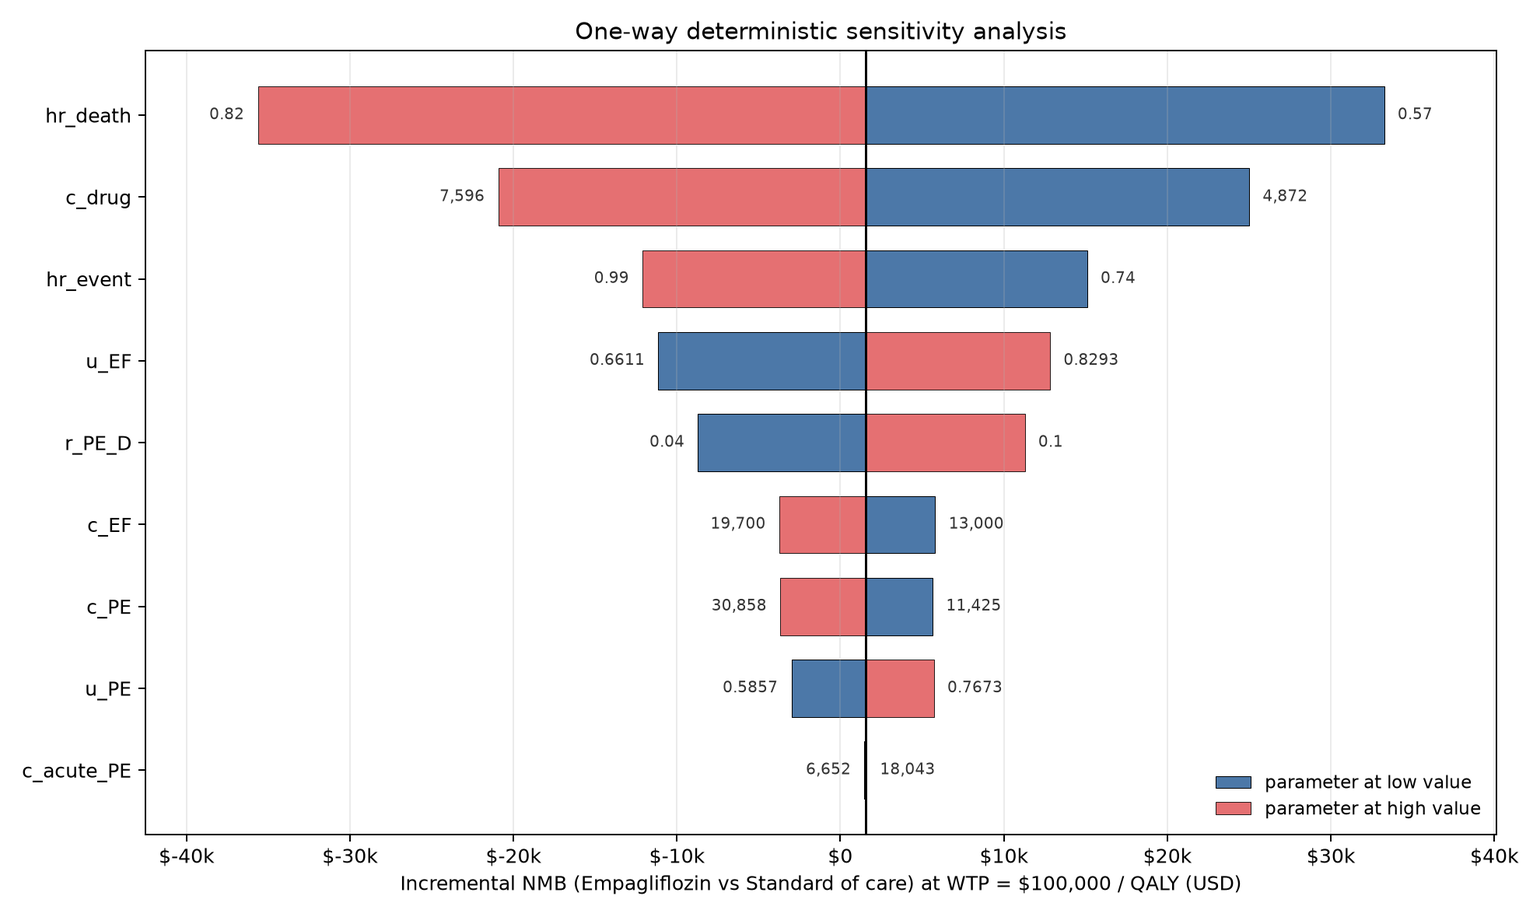
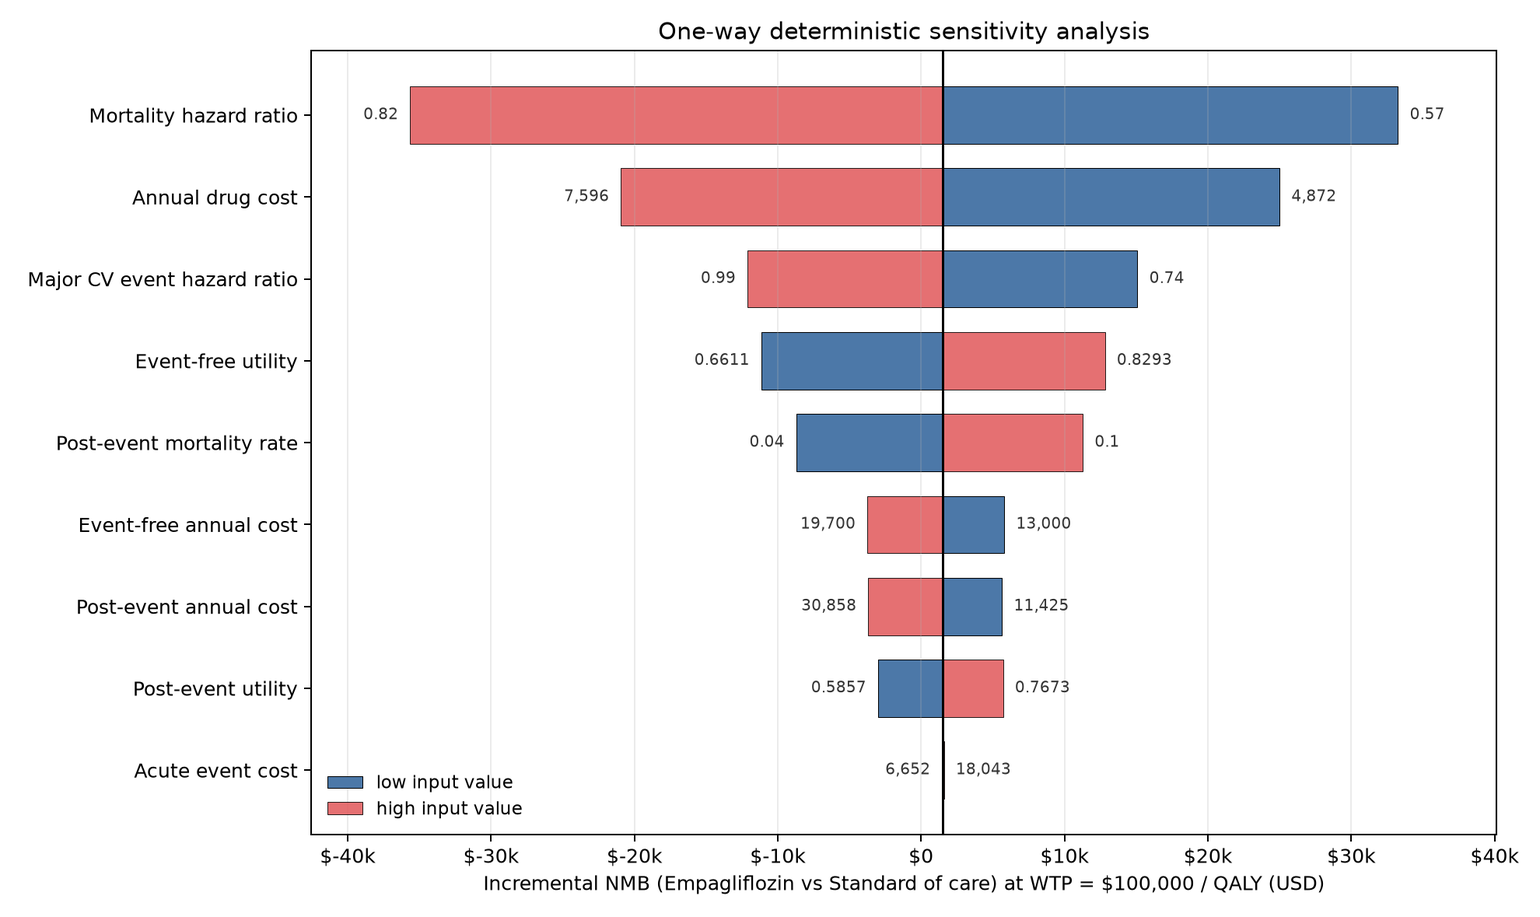
feat: polish OpenCEA presentation

diff --git a/src/opencea/plots.py b/src/opencea/plots.py
@@ -14,7 +14,7 @@ source of truth for NMB / CEAC values. The tornado takes a
 from __future__ import annotations
 
 from pathlib import Path
-from typing import Optional, Union
+from typing import Mapping, Optional, Union
 
 import matplotlib
 
@@ -188,6 +188,7 @@ def plot_tornado(
     out_path: PathLike,
     top_n: Optional[int] = None,
     dpi: int = 150,
+    parameter_labels: Optional[Mapping[str, str]] = None,
 ) -> Path:
     """Classic CEA tornado: horizontal bars sorted by swing, centered on base.
 
@@ -204,6 +205,9 @@ def plot_tornado(
         Destination path for the PNG.
     top_n
         Optional cap on the number of parameters shown (largest swings).
+    parameter_labels
+        Optional mapping from parameter names to display labels. Parameters
+        missing from the mapping keep their original names.
     """
     sweeps = list(dsa_result.sweeps)
     if top_n is not None:
@@ -234,7 +238,7 @@ def plot_tornado(
             color=color_low,
             edgecolor="black",
             linewidth=0.4,
-            label="parameter at low value" if i == n - 1 else None,
+            label="low input value" if i == n - 1 else None,
         )
         ax.barh(
             i,
@@ -245,7 +249,7 @@ def plot_tornado(
             edgecolor="black",
             linewidth=0.4,
             alpha=0.85,
-            label="parameter at high value" if i == n - 1 else None,
+            label="high input value" if i == n - 1 else None,
         )
 
     # Annotate each bar end with the corresponding parameter value, outside
@@ -282,7 +286,8 @@ def plot_tornado(
 
     ax.axvline(base, color="black", lw=1.2)
     ax.set_yticks(np.arange(n))
-    ax.set_yticklabels([sw.parameter for sw in sweeps_plot])
+    labels = parameter_labels if parameter_labels is not None else {}
+    ax.set_yticklabels([labels.get(sw.parameter, sw.parameter) for sw in sweeps_plot])
     ax.set_xlim(xmin - 2.5 * pad, xmax + 2.5 * pad)
 
     ax.set_xlabel(
@@ -292,7 +297,7 @@ def plot_tornado(
     ax.set_title("One-way deterministic sensitivity analysis")
     ax.xaxis.set_major_formatter(plt.FuncFormatter(_format_money))
     ax.grid(True, axis="x", alpha=0.25)
-    ax.legend(loc="lower right", frameon=False, fontsize=9)
+    ax.legend(loc="lower left", frameon=False, fontsize=9)
     fig.tight_layout()
 
     out = Path(out_path)

diff --git a/scripts/generate_readme_assets.py b/scripts/generate_readme_assets.py
@@ -39,6 +39,17 @@ SEED = 20260626
 WTP = 100_000.0
 NET_PRICE = 4_500.0
 WANING = WaningSpec(start_year=3.0, end_year=10.0)
+TORNADO_PARAMETER_LABELS = {
+    "hr_death": "Mortality hazard ratio",
+    "c_drug": "Annual drug cost",
+    "hr_event": "Major CV event hazard ratio",
+    "u_EF": "Event-free utility",
+    "r_PE_D": "Post-event mortality rate",
+    "c_EF": "Event-free annual cost",
+    "c_PE": "Post-event annual cost",
+    "u_PE": "Post-event utility",
+    "c_acute_PE": "Acute event cost",
+}
 
 
 @dataclass(frozen=True)
@@ -223,6 +234,7 @@ def main() -> None:
         dsa,
         ASSET_DIR / "empagliflozin-tornado.png",
         dpi=180,
+        parameter_labels=TORNADO_PARAMETER_LABELS,
     )
     write_result_summary(
         scenarios,

diff --git a/tests/test_sensitivity.py b/tests/test_sensitivity.py
@@ -232,3 +232,16 @@ def test_tornado_plot_top_n(dsa, tmp_path):
 
     out = plot_tornado(dsa, tmp_path / "tornado_top5.png", top_n=5)
     assert out.exists() and out.stat().st_size > 0
+
+
+def test_tornado_plot_accepts_display_labels(dsa, tmp_path):
+    """Callers can replace internal parameter names in presentation figures."""
+    from opencea.plots import plot_tornado
+
+    labels = {sweep.parameter: f"Label for {sweep.parameter}" for sweep in dsa.sweeps}
+    out = plot_tornado(
+        dsa,
+        tmp_path / "tornado_labelled.png",
+        parameter_labels=labels,
+    )
+    assert out.exists() and out.stat().st_size > 0

diff --git a/examples/empagliflozin_case_study.md b/examples/empagliflozin_case_study.md
@@ -1,6 +1,10 @@
 # Empagliflozin vs Standard of Care in T2D with established CVD
 
-**Illustrative cost-effectiveness analysis** built on the validated OpenCEA engine. Every parameter is drawn from cited literature (see [`examples/empagliflozin_t2d.yaml`](empagliflozin_t2d.yaml)); no values are invented.
+This illustrative cost-effectiveness analysis runs on the validated OpenCEA
+engine. The model inputs are documented in
+[`examples/empagliflozin_t2d.yaml`](empagliflozin_t2d.yaml) with a source or
+modeling rationale. The $4,500 net-price scenario is an explicit modeling
+assumption, not an observed price.
 
 This writeup follows the CHEERS 2022 reporting structure adapted for a brief working document.
 
@@ -15,7 +19,7 @@ Is empagliflozin added to standard of care cost-effective versus standard of car
 | Comparators | Standard of care (SoC); Empagliflozin + SoC |
 | Population | Adults with T2D + established CVD, mean age 63 (EMPA-REG OUTCOME placebo arm) |
 | Perspective | US healthcare-sector (drug + medical care; non-medical costs excluded) |
-| Time horizon | Lifetime — start age 63, terminate at age 100 (37 annual cycles) |
+| Time horizon | Lifetime: start age 63, terminate at age 100 (37 annual cycles) |
 | Discount rate | 3% per year for costs and QALYs |
 | Cycle length | 1 year, Simpson's 1/3 within-cycle correction |
 | Outcome | Incremental cost / QALY (ICER); net monetary benefit at $100k / QALY; CEAC over 0-$200k / QALY |
@@ -36,11 +40,14 @@ Three health states:
                  [ D ] <----------- [ D ]
 ```
 
-- **EF** — event-free: T2D with CVD but no major CV event yet.
-- **PE** — post major CV event (composite of MI / stroke / HF hospitalization).
-- **D** — dead, absorbing.
+- **EF:** event-free, with T2D and CVD but no major CV event yet.
+- **PE:** post major CV event (a composite of MI, stroke, and HF hospitalization).
+- **D:** dead, absorbing.
 
-PE cannot recover to EF (mirroring the "Sicker" structure in the DARTH tutorial). Transition probabilities are built from annual rates via `p = 1 - exp(-r * t)` with the same competing-risks construction the engine already validates — non-death transitions are scaled by `(1 - p_death)` so each row sums to 1.
+PE cannot recover to EF, matching the "Sicker" structure in the DARTH
+tutorial. Transition probabilities are built from annual rates with
+`p = 1 - exp(-r * t)`. The engine scales non-death transitions by
+`(1 - p_death)` so each row sums to 1.
 
 The acute event cost on entering PE is implemented as a **transition cost**: discounted at the engine's `dw_c[t+1] * wcc[t+1]` weight, matching how state costs are discounted at the cycle when occupants are present.
 
@@ -50,10 +57,11 @@ The acute event cost on entering PE is implemented as a **transition cost**: dis
 
 Empagliflozin acts on the model through two independent channels, each anchored on a different EMPA-REG OUTCOME endpoint:
 
-1. **Progression channel (`HR_event = 0.86`)** — composite hazard ratio for first major CV event (`EF -> PE`). Constructed as the EMPA-REG composition-weighted blend `0.60 * 1.00 (MI/stroke, no significant trial effect) + 0.40 * 0.65 (HF hospitalization HR 0.65 [0.50-0.85])`. 95% CI for the composite ~ `[0.74, 0.99]`.
-2. **Mortality channel (`HR_death = 0.68`)** — all-cause mortality HR (95% CI `[0.57, 0.82]`, Zinman 2015). Applied to **both** `EF -> D` and `PE -> D` rates, on the assumption (per the case-study spec) that the trial-reported all-cause mortality benefit persists across both health states. *This is the assumption with the largest economic leverage* (see tornado below); a more conservative assumption that applies the HR only in EF would shift the ICER downward.
+1. **Progression channel (`HR_event = 0.86`):** composite hazard ratio for first major CV event (`EF -> PE`). Constructed as the EMPA-REG composition-weighted blend `0.60 * 1.00 (MI/stroke, no significant trial effect) + 0.40 * 0.65 (HF hospitalization HR 0.65 [0.50-0.85])`. 95% CI for the composite is approximately `[0.74, 0.99]`.
+2. **Mortality channel (`HR_death = 0.68`):** all-cause mortality HR (95% CI `[0.57, 0.82]`, Zinman 2015). The model applies it to both `EF -> D` and `PE -> D`, assuming that the trial-reported all-cause mortality benefit persists in both health states. This assumption has the largest economic leverage in the tornado analysis. Applying the HR only in EF would materially change the model and requires a separate scenario.
 
-No utility effect — empagliflozin's QALY benefit comes through event avoidance and survival, not through state-utility change.
+The model applies no separate utility effect. Empagliflozin's QALY benefit
+comes through event avoidance and survival.
 
 ---
 
@@ -83,7 +91,7 @@ PSA distributions: HRs lognormal parameterized so that `median = point estimate`
 
 | Strategy | Total cost (USD) | Total QALY | Inc cost | Inc QALY | ICER ($/QALY) | NMB @ $100k |
 |---|---:|---:|---:|---:|---:|---:|
-| Standard of care | 259,540 | 10.944 | — | — | — | 834,855 |
+| Standard of care | 259,540 | 10.944 | Not applicable | Not applicable | Not applicable | 834,855 |
 | Empagliflozin | 397,423 | 12.338 | 137,883 | 1.394 | **98,900** | 836,388 |
 
 Incremental NMB of Empa vs SoC at $100k / QALY: **$1,534** (very thin margin).
@@ -92,7 +100,7 @@ The acute event cost contributes $4,449 to SoC and $4,325 to Empa (Empa's lower 
 
 ---
 
-## One-way DSA — tornado on incremental NMB at $100k / QALY
+## One-way DSA at $100k / QALY
 
 Top 5 drivers, sorted by swing (full table in `tornado.png`):
 
@@ -104,13 +112,18 @@ Top 5 drivers, sorted by swing (full table in `tornado.png`):
 | 4 | `u_EF` | 0.66 → 0.83 | −10,632 | +13,329 | 23,961 |
 | 5 | `r_PE_D` | 0.04 → 0.10 | +12,041 | −7,943 | 19,984 |
 
-Reading: `hr_death` flips the decision (the bar straddles zero). Empa goes from clearly cost-effective at the optimistic CI bound to clearly not cost-effective at the pessimistic CI bound. The drug cost is the second-largest single lever — bringing the price down to $4,872 (FSS) makes Empa cost-effective at $100k WTP without any other change. `c_acute_PE` has near-zero swing because the difference in EF→PE flow between strategies is small.
+`hr_death` flips the decision because its bar straddles zero. Empa goes from
+cost-effective at the optimistic CI bound to not cost-effective at the
+pessimistic CI bound. Drug cost is the second-largest single lever. Lowering
+the price to $4,872 (FSS) makes Empa cost-effective at $100k WTP without any
+other change. `c_acute_PE` has near-zero swing because the difference in
+EF→PE flow between strategies is small.
 
 `hr_event` ranks third even though the composite HR is closer to 1 than `hr_death`. That is consistent with empagliflozin's CV benefit in EMPA-REG being driven more by mortality than by non-fatal events.
 
 ---
 
-## PSA — CEAC and CE plane (n_sim = 10,000)
+## PSA, CEAC, and CE plane (n_sim = 10,000)
 
 | WTP ($/QALY) | P(Empa cost-effective) |
 |---:|---:|
@@ -118,9 +131,15 @@ Reading: `hr_death` flips the decision (the bar straddles zero). Empa goes from 
 | **100,000** | **0.517** |
 | 150,000 | 0.945 |
 
-The deterministic ICER ($98,900) sits a hair below $100k WTP, so the CEAC crosses 50% almost exactly at the standard US threshold — confirming the result is genuinely on the cost-effectiveness boundary rather than safely on one side. PSA mean ICER (cost diff / qaly diff in expectation) tracks the deterministic value within ~3%.
+The deterministic ICER ($98,900) is just below $100k WTP, and the CEAC
+crosses 50% near that threshold. The result sits on the cost-effectiveness
+boundary rather than safely on one side. The PSA mean ICER (cost difference
+divided by QALY difference in expectation) is within about 3% of the
+deterministic value.
 
-The CE plane scatter (`empa_ce_plane.png`) lies almost entirely in the upper-right quadrant — Empa is dominantly more costly and more effective than SoC; the question is only whether the QALY gain is worth the spend.
+The CE plane scatter (`empa_ce_plane.png`) lies almost entirely in the
+upper-right quadrant. Empa is usually more costly and more effective than SoC;
+the decision depends on whether the QALY gain justifies the added cost.
 
 ---
 
@@ -130,8 +149,15 @@ The base case sits *right at* the $100k/QALY threshold, so the conclusion turns 
 
 ### Scenarios
 
-- **Net price** — annual drug cost lowered to **$4,500/yr**, illustrative of a typical ~28% rebate off the $6,264 WAC. *Real net prices are confidential and vary by payer*; this is a single round number, not a quotation.
-- **Treatment-effect waning** — both `hr_event` and `hr_death` are held at their trial point estimates for the first **3 years** (EMPA-REG follow-up), then linearly interpolated to **HR = 1.0 by year 10**, then no effect for the remaining 27 cycles. Implemented via a per-cycle transition-matrix sequence; the time-homogeneous engine path is untouched (a regression test confirms the sequence helper reduces to the validated `evaluate_strategy` when fed a stack of identical matrices).
+- **Net price:** annual drug cost lowered to **$4,500/yr**, an illustrative
+  ~28% rebate from the $6,264 WAC. Real net prices are confidential and vary
+  by payer; this is a round modeling assumption, not a quotation.
+- **Treatment-effect waning:** both `hr_event` and `hr_death` remain at their
+  trial point estimates for the first **3 years** (EMPA-REG follow-up), then
+  move linearly to **HR = 1.0 by year 10**. The model applies no treatment
+  effect for the remaining 27 cycles. A per-cycle transition-matrix sequence
+  implements the scenario, and a regression test confirms that identical
+  matrices reduce to the validated `evaluate_strategy` result.
 
 ### Scenario grid (n_sim = 10,000)
 
@@ -155,34 +181,53 @@ Read: under the sustained-effect base case, empagliflozin would need to come in 
 
 ### Interpretation
 
-The two assumptions move in opposite directions and the size of the move is asymmetric. The net-price scenario reduces incremental cost by roughly the discounted lifetime drug-cost differential (~$37k) and pulls the ICER 21% below the base case. Waning, in contrast, eliminates most of the long-run mortality benefit — the incremental QALY gain drops from 1.39 to about 0.49 (a ~65% reduction). Cost savings from fewer high-cost PE years partially offset this, but not enough; the waning ICER more than doubles.
+The two assumptions move in opposite directions, but not by the same amount.
+The net-price scenario reduces incremental cost by roughly the discounted
+lifetime drug-cost difference (~$37k) and puts the ICER 21% below the base
+case. Under waning, the incremental QALY gain falls from 1.39 to about 0.49,
+a reduction of roughly 65%. Cost savings from fewer high-cost PE years offset
+part of that loss, but the waning ICER still more than doubles.
 
-The combined scenario shows that **rebates alone do not rescue a waning-effect interpretation** of the trial. If the EMPA-REG mortality benefit truly persists for life, empagliflozin is cost-effective at $100k/QALY at WAC (with healthy PSA support — 52% at WAC, 92% at $4,500 net). If the mortality benefit fades within ~10 years, the drug is not cost-effective at $100k/QALY even after a ~28% rebate — and would need to drop below ~$2,650/yr to clear the threshold.
+Under the sustained-effect assumption, the deterministic result is
+cost-effective at $100k/QALY at WAC, but only 51.7% of PSA draws favor
+empagliflozin. The $4,500 net-price scenario raises that probability to 92.0%.
+If the mortality benefit fades within about 10 years, the drug is not
+cost-effective at $100k/QALY even after the modeled ~28% rebate. Its annual
+price would need to fall below roughly $2,650 to clear the threshold.
 
-The cost-effectiveness conclusion is therefore **conditional on the durability of the EMPA-REG all-cause mortality benefit, not on drug pricing**. Trial-effect durability — not the price — is the dominant uncertainty.
+The modeled conclusion is most sensitive to the durability of the EMPA-REG
+all-cause mortality benefit. Drug price still matters and is the second-largest
+driver in the one-way sensitivity analysis.
 
 ---
 
 ## Limitations
 
-The user spec explicitly framed this as an **illustrative** model. Limitations material to the result:
+This is an **illustrative** model. The following limitations are material to
+the result:
 
 1. **Aggregated event state.** MI, stroke, and HF are collapsed into a single "PE" state with a blended ongoing cost, acute cost, and utility. Published US empagliflozin CEAs in the **$26k - $88k / QALY** range typically separate these (often into 4-6 states), which yields a tighter cost ledger and different mortality trajectories for each event type.
-2. **Cohort, not microsimulation.** No individual heterogeneity, no time since first event, no second-event modeling. The 60/40 MI-stroke vs HF blend is fixed at the trial composition forever — in reality the mix would evolve with age and prior events.
-3. **Lifetime extrapolation of trial-derived HRs.** EMPA-REG OUTCOME measured outcomes over a median 3.1 years. The base case applies both HRs (`hr_event` = 0.86, `hr_death` = 0.68) for all 37 cycles. The **waning scenario** above quantifies the impact of that assumption — the deterministic ICER more than doubles, from $98,900 to $206,778/QALY, when the effect is allowed to taper to zero by year 10.
-4. **All-cause mortality HR applied to PE→D.** The trial measured HR 0.68 in the trial population (which started event-free). Applying that HR to post-event mortality is a strong assumption — the DSA shows it's the single largest driver of incremental NMB, with a tornado bar that straddles zero across the trial's 95% CI.
+2. **Cohort, not microsimulation.** No individual heterogeneity, no time since first event, no second-event modeling. The 60/40 MI-stroke vs HF blend stays fixed at the trial composition, although the mix could change with age and prior events.
+3. **Lifetime extrapolation of trial-derived HRs.** EMPA-REG OUTCOME measured outcomes over a median 3.1 years. The base case applies both HRs (`hr_event` = 0.86, `hr_death` = 0.68) for all 37 cycles. The **waning scenario** quantifies the impact of that assumption: the deterministic ICER more than doubles, from $98,900 to $206,778/QALY, when the effect tapers to zero by year 10.
+4. **All-cause mortality HR applied to PE→D.** The trial measured HR 0.68 in the trial population, which started event-free. Applying that HR to post-event mortality is a strong assumption. The DSA shows it is the largest driver of incremental NMB, with a tornado bar that straddles zero across the trial's 95% CI.
 5. **WAC drug price.** $6,264/yr is the listed wholesale price. Most US payers see meaningfully lower **net** prices after rebates; the net-price scenario above shows that a $4,500/yr price (~28% rebate) lowers the ICER to $77,564/QALY under sustained effect. Real net prices are confidential.
 6. **No adverse-event modeling.** Genital infections (the most notable EMPA-REG side effect) and DKA risk are not separately costed.
-7. **Linear time-homogeneity in baseline rates.** SoC rates do not change with age, time since diagnosis, or cumulative drug exposure. (The Empa transition matrix can vary per cycle via the additive sequence engine — used here for waning.)
+7. **Linear time-homogeneity in baseline rates.** SoC rates do not change with age, time since diagnosis, or cumulative drug exposure. The Empa transition matrix can vary by cycle through the additive sequence engine used for waning.
 
 ## Bottom line
 
 The base-case ICER ($98,900/QALY) lands at the upper end of plausibility, just below a $100k WTP. The scenario grid makes the driver of that conclusion explicit:
 
-- **If the EMPA-REG mortality benefit is sustained**, empagliflozin is cost-effective at $100k/QALY at WAC pricing (with PSA support of ~52% rising to ~92% at a $4,500 net price).
+- **If the EMPA-REG mortality benefit is sustained**, the deterministic ICER
+  is $98,900/QALY at WAC pricing. The probability of cost-effectiveness is
+  51.7% at WAC and 92.0% at the modeled $4,500 net price.
 - **If the effect wanes** (linearly to zero between years 3 and 10), the ICER rises above $200k/QALY at WAC and stays above $150k/QALY even at a $4,500 net price.
 
-The dominant uncertainty is therefore the **durability of the all-cause mortality benefit**, not drug pricing. Two structural choices distinguish this analysis from the central published $26-88k/QALY range: WAC drug pricing (relaxed in the net-price scenario) and the 3-state aggregation (left in place as an illustrative simplification).
+Within this scenario grid, the largest uncertainty is the durability of the
+all-cause mortality benefit. Drug pricing remains important. Two structural
+choices distinguish this analysis from the central published $26-88k/QALY
+range: WAC drug pricing, which the net-price scenario relaxes, and the
+three-state aggregation, which remains an illustrative simplification.
 
 ---
 
@@ -190,10 +235,10 @@ The dominant uncertainty is therefore the **durability of the all-cause mortalit
 
 Generated by the OpenCEA plotting module from the same `PSAResult` / `DSAResult` objects the tests verify. Saved to `examples/figures/`:
 
-- `empa_tornado.png` — one-way DSA tornado on incremental NMB at $100k.
-- `empa_ceac.png` — CEAC for SoC vs Empa across $0 - $200k WTP.
-- `empa_ce_plane.png` — incremental cost / QALY scatter, 10,000 draws.
-- `empa_ce_frontier.png` — expected NMB vs WTP, with optimal-strategy switch marked.
+- `empa_tornado.png`: one-way DSA tornado on incremental NMB at $100k.
+- `empa_ceac.png`: CEAC for SoC vs Empa across $0 - $200k WTP.
+- `empa_ce_plane.png`: incremental cost / QALY scatter, 10,000 draws.
+- `empa_ce_frontier.png`: expected NMB vs WTP, with the optimal-strategy switch marked.
 
 To regenerate:
 

diff --git a/README.md b/README.md
@@ -3,9 +3,9 @@
 [![CI](https://github.com/SHLEW06/OpenCEA/actions/workflows/ci.yml/badge.svg)](https://github.com/SHLEW06/OpenCEA/actions/workflows/ci.yml)
 
 OpenCEA is a typed Python library for cohort state-transition
-cost-effectiveness analysis. It turns validated model inputs into discounted
-costs and QALYs, ICERs, probabilistic sensitivity analysis, and decision
-figures.
+cost-effectiveness analysis. It takes validated model inputs through
+discounted costs and QALYs, ICERs, probabilistic sensitivity analysis, and
+publication-ready decision figures.
 
 [Case study](examples/empagliflozin_case_study.md) |
 [Release checklist](docs/RELEASE_CHECKLIST.md) |
@@ -16,7 +16,7 @@ figures.
 
 | Validation | Applied example | Uncertainty analysis | Supported Python |
 |---|---|---|---|
-| 124 tests, 95.86% coverage | Four empagliflozin scenarios | 10,000 seeded PSA draws | 3.10, 3.11, and 3.12 |
+| 125 tests, 95.86% coverage | Four empagliflozin scenarios | 10,000 seeded PSA draws | 3.10, 3.11, and 3.12 |
 
 The included case study shows how price and treatment-effect duration change
 the cost-effectiveness result at a $100,000-per-QALY threshold.
@@ -28,17 +28,17 @@ assumption than under the modeled price reduction.*
 
 ## What it solves
 
-Health-economic models need more than a final ICER. Reviewers also need to see
-how model assumptions become state transitions, where uncertainty enters, and
-whether published reference results can be reproduced. OpenCEA keeps those
-steps in one Python workflow.
+A health-economic model needs more than a final ICER. A reviewer should be able
+to trace assumptions into state transitions, see where uncertainty enters, and
+reproduce the reference results. OpenCEA keeps that work in one Python
+workflow.
 
 | Contribution | Evidence in this repository |
 |---|---|
 | Validated cohort engine | Golden tests reproduce the DARTH Sick-Sicker reference model's discounted costs and QALYs to the cent and its reported ICERs to the dollar. |
 | Decision analysis | The library covers deterministic CEA, seeded PSA, CEACs, one-way DSA, tornado plots, expected-NMB frontiers, and scenario analysis. |
 | Release integrity | CI tests Python 3.10, 3.11, and 3.12, enforces a 90% coverage floor, checks types and formatting, tests the unpacked source distribution, and installs the wheel in a clean environment. |
-| Applied example | The empagliflozin case study documents public source citations for its inputs and reports the effects of price and treatment-effect waning. |
+| Applied example | The empagliflozin case study documents a source or modeling rationale for each input and reports how price and treatment-effect waning change the result. |
 
 ## Case study result
 
@@ -160,7 +160,7 @@ The command writes the figures and
 
 ## Validation
 
-The current suite has 124 tests and reports 95.86% line coverage. CI enforces a
+The current suite has 125 tests and reports 95.86% line coverage. CI enforces a
 90% minimum and runs:
 
 - Ruff lint and formatting checks

diff --git a/CHANGELOG.md b/CHANGELOG.md
@@ -19,6 +19,10 @@ and repairs the release path without changing model calculations.
 - CI and the publishing workflow inspect both archives, test the sdist,
   install the wheel in a clean environment, and run a self-contained
   public API calculation before publication.
+- Tornado plots accept optional reader-friendly parameter labels, and the
+  public case-study figure uses them.
+- The case-study writeup distinguishes cited inputs from modeling assumptions
+  and describes uncertainty without overstating the result.
 
 ## 0.1.0 — first tagged release (2026-07-03)
 
